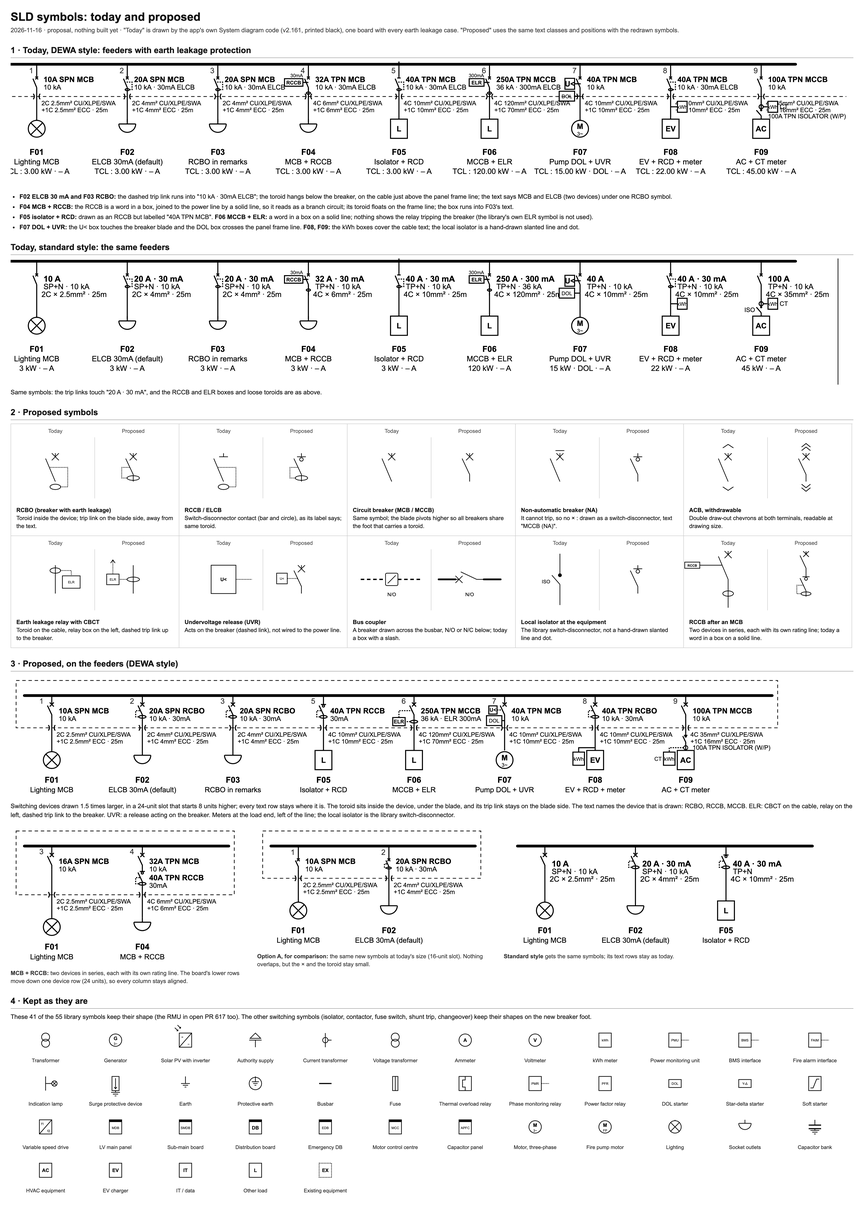
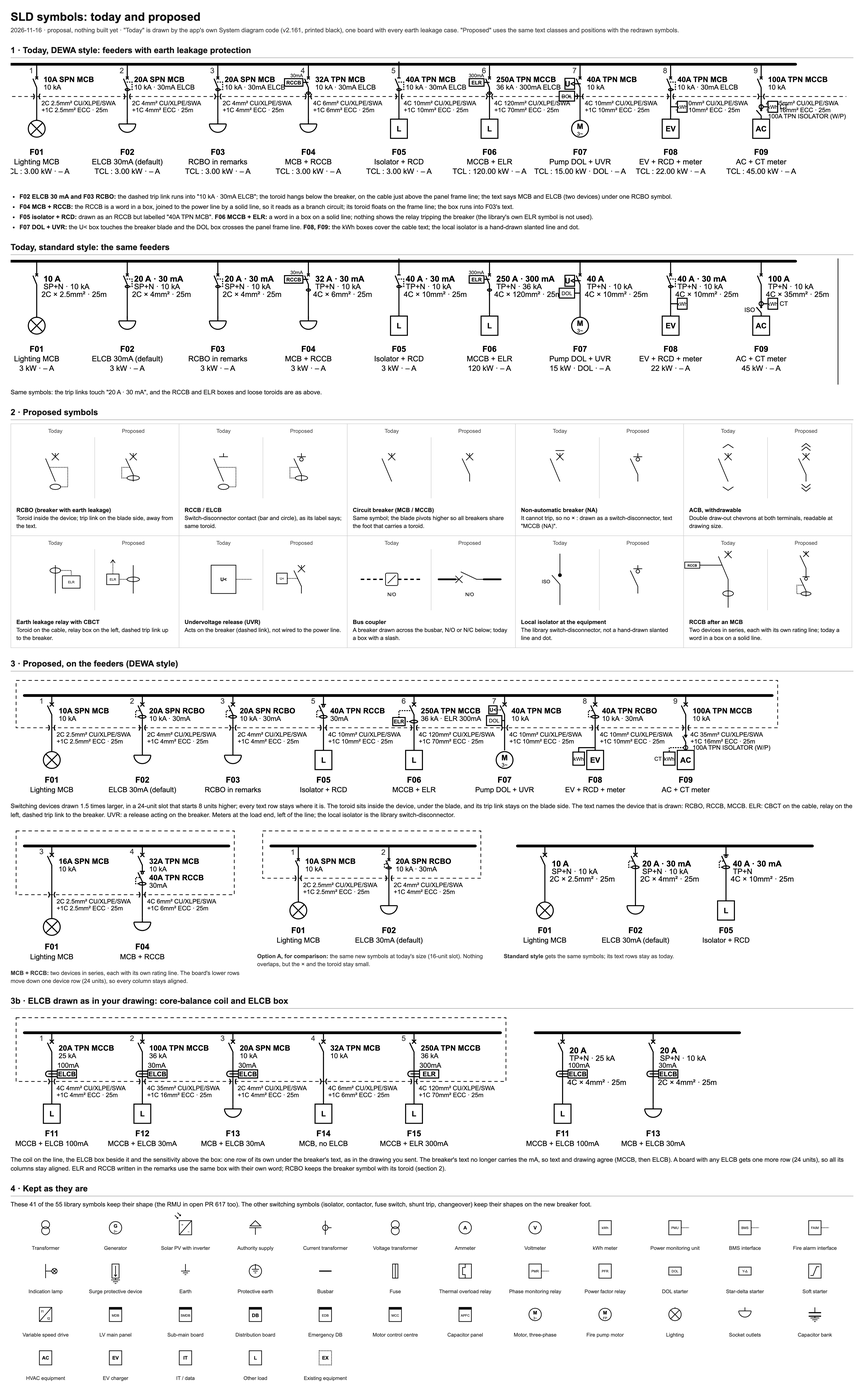
docs(sld): ELCB drawn as in the user's drawing – coil and box under the breaker
The user sent part of a drawing they use: on each MCCB feeder the earth
leakage protection is a core-balance coil on the line with an "ELCB" box
beside it and the sensitivity above the box, on a row of its own next to
the breaker. Mockup section 3b draws that on our SLD (DEWA and standard
styles): the row goes under the breaker's text, the breaker's text drops
the mA, ELR and RCCB use the same box with their own word, RCBO keeps its
symbol, and a board with any ELCB gets one more row. The note makes this
the recommended earth leakage drawing; the IEC device symbols stay the
alternative. Decisions are now four.

diff --git a/docs/mockups/sld-symbols-mockup.html b/docs/mockups/sld-symbols-mockup.html
@@ -131,6 +131,13 @@ svg text{font-family:Arial,Helvetica,sans-serif}
 <figure><div class="sysdiag"><svg xmlns="http://www.w3.org/2000/svg" width="719.2" height="279" viewBox="0 0 464 180"><line x1="20" y1="30" x2="450" y2="30" class="bus"/><line x1="60" y1="30" x2="60" y2="40" class="ln"/><g class="iec"><path d="M 60 40 V 43 M 57 40 L 63 46 M 63 40 L 57 46 M 60 64 V 58 L 53.63 44.5" class="ln"/></g><text x="70" y="60" class="b" >10 A</text><text x="70" y="71" class="acc-t" style="font-size:11px">SP+N · 10 kA</text><line x1="60" y1="64" x2="60" y2="110" class="ln"/><text x="67" y="82" class="m" >2C × 2.5mm² · 25m</text><g class="iec"><path d="M 60 110 V 111.75" class="ln"/><circle cx="60" cy="124" r="12.25" class="sym"/><path d="M 51.34 115.34 L 68.66 132.66 M 68.66 115.34 L 51.34 132.66" class="ln"/></g><text x="60" y="157" class="b" text-anchor="middle">F01</text><text x="60" y="171" class="m" text-anchor="middle" style="font-size:10.5px">Lighting MCB</text><line x1="192" y1="30" x2="192" y2="40" class="ln"/><g class="iec"><path d="M 192 40 V 43 M 189 40 L 195 46 M 195 40 L 189 46 M 192 64 V 58 L 185.63 44.5" class="ln"/><ellipse cx="192" cy="61" rx="5.25" ry="1.95" class="sym-open"/><path d="M 186.75 61 H 182.25 V 52 H 189.15" class="ln" style="stroke-dasharray:2 1.5"/></g><text x="202" y="60" class="b" >20 A · 30 mA</text><text x="202" y="71" class="acc-t" style="font-size:11px">SP+N · 10 kA</text><line x1="192" y1="64" x2="192" y2="110" class="ln"/><text x="199" y="82" class="m" >2C × 4mm² · 25m</text><g class="iec"><path d="M 192 110 V 117 M 179.75 117 H 204.25" class="ln"/><path d="M 179.75 117 A 12.25 12.25 0 0 0 204.25 117" class="sym-open"/></g><text x="192" y="157" class="b" text-anchor="middle">F02</text><text x="192" y="171" class="m" text-anchor="middle" style="font-size:10.5px">ELCB 30mA (default)</text><line x1="324" y1="30" x2="324" y2="40" class="ln"/><g class="iec"><path d="M 324 40 V 43 M 320.25 43 H 327.75 M 324 64 V 58 L 317.63 44.5" class="ln"/><circle cx="324" cy="45.25" r="1.5" class="sym-open"/><ellipse cx="324" cy="61" rx="5.25" ry="1.95" class="sym-open"/><path d="M 318.75 61 H 314.25 V 52 H 321.15" class="ln" style="stroke-dasharray:2 1.5"/></g><text x="334" y="60" class="b" >40 A · 30 mA</text><text x="334" y="71" class="acc-t" style="font-size:11px">TP+N</text><line x1="324" y1="64" x2="324" y2="110" class="ln"/><text x="331" y="82" class="m" >4C × 10mm² · 25m</text><g class="iec"><rect x="311.75" y="110" width="24.5" height="28" class="sym"/><text x="324" y="128" text-anchor="middle" class="iec-t b">L</text></g><text x="324" y="157" class="b" text-anchor="middle">F05</text><text x="324" y="171" class="m" text-anchor="middle" style="font-size:10.5px">Isolator + RCD</text></svg></div><figcaption style="width:742px"><b>Standard style</b> gets the same symbols; its text rows stay as today.</figcaption></figure>
 </div>
 
+<h2>3b · ELCB drawn as in your drawing: core-balance coil and ELCB box</h2>
+<div class="row">
+<figure><div class="sysdiag"><svg xmlns="http://www.w3.org/2000/svg" width="1128.4" height="316.2" viewBox="0 0 728 204"><rect x="8" y="8" width="714" height="93" class="frame-ln"/><line x1="20" y1="30" x2="714" y2="30" class="bus"/><line x1="60" y1="30" x2="60" y2="40" class="ln"/><text x="48" y="42" class="acc-t way-no" text-anchor="end" style="font-size:11px">1</text><g class="iec"><path d="M 60 40 V 43 M 57 40 L 63 46 M 63 40 L 57 46 M 60 64 V 58 L 53.63 44.5" class="ln"/></g><text x="70" y="56" class="dev" >20A TPN MCCB</text><text x="70" y="67" class="dev-k" >25 kA</text><line x1="60" y1="64" x2="60" y2="134" class="ln"/><g class="acc"><path d="M55 86H68M55 90H68M55 94H68M55 86A4 4 0 0 0 55 94" class="ln"/><rect x="68" y="84" width="28" height="12" class="sym"/><text x="82" y="93.4" class="acc-t b" text-anchor="middle" style="font-size:9.5px">ELCB</text><text x="68" y="81" class="acc-t" style="font-size:10px">100mA</text></g><path d="M55 97 q3 4 0 8 M65 97 q-3 4 0 8" class="ln"/><text x="67" y="114" class="acc-t" style="font-size:9px">4C 4mm² CU/XLPE/SWA</text><text x="67" y="124" class="acc-t" style="font-size:9px">+1C 4mm² ECC · 25m</text><g class="iec"><rect x="47.75" y="134" width="24.5" height="28" class="sym"/><text x="60" y="152" text-anchor="middle" class="iec-t b">L</text></g><text x="60" y="181" class="b" text-anchor="middle">F11</text><text x="60" y="195" class="m" text-anchor="middle" style="font-size:10.5px">MCCB + ELCB 100mA</text><line x1="192" y1="30" x2="192" y2="40" class="ln"/><text x="180" y="42" class="acc-t way-no" text-anchor="end" style="font-size:11px">2</text><g class="iec"><path d="M 192 40 V 43 M 189 40 L 195 46 M 195 40 L 189 46 M 192 64 V 58 L 185.63 44.5" class="ln"/></g><text x="202" y="56" class="dev" >100A TPN MCCB</text><text x="202" y="67" class="dev-k" >36 kA</text><line x1="192" y1="64" x2="192" y2="134" class="ln"/><g class="acc"><path d="M187 86H200M187 90H200M187 94H200M187 86A4 4 0 0 0 187 94" class="ln"/><rect x="200" y="84" width="28" height="12" class="sym"/><text x="214" y="93.4" class="acc-t b" text-anchor="middle" style="font-size:9.5px">ELCB</text><text x="200" y="81" class="acc-t" style="font-size:10px">30mA</text></g><path d="M187 97 q3 4 0 8 M197 97 q-3 4 0 8" class="ln"/><text x="199" y="114" class="acc-t" style="font-size:9px">4C 35mm² CU/XLPE/SWA</text><text x="199" y="124" class="acc-t" style="font-size:9px">+1C 16mm² ECC · 25m</text><g class="iec"><rect x="179.75" y="134" width="24.5" height="28" class="sym"/><text x="192" y="152" text-anchor="middle" class="iec-t b">L</text></g><text x="192" y="181" class="b" text-anchor="middle">F12</text><text x="192" y="195" class="m" text-anchor="middle" style="font-size:10.5px">MCCB + ELCB 30mA</text><line x1="324" y1="30" x2="324" y2="40" class="ln"/><text x="312" y="42" class="acc-t way-no" text-anchor="end" style="font-size:11px">3</text><g class="iec"><path d="M 324 40 V 43 M 321 40 L 327 46 M 327 40 L 321 46 M 324 64 V 58 L 317.63 44.5" class="ln"/></g><text x="334" y="56" class="dev" >20A SPN MCB</text><text x="334" y="67" class="dev-k" >10 kA</text><line x1="324" y1="64" x2="324" y2="134" class="ln"/><g class="acc"><path d="M319 86H332M319 90H332M319 94H332M319 86A4 4 0 0 0 319 94" class="ln"/><rect x="332" y="84" width="28" height="12" class="sym"/><text x="346" y="93.4" class="acc-t b" text-anchor="middle" style="font-size:9.5px">ELCB</text><text x="332" y="81" class="acc-t" style="font-size:10px">30mA</text></g><path d="M319 97 q3 4 0 8 M329 97 q-3 4 0 8" class="ln"/><text x="331" y="114" class="acc-t" style="font-size:9px">2C 4mm² CU/XLPE/SWA</text><text x="331" y="124" class="acc-t" style="font-size:9px">+1C 4mm² ECC · 25m</text><g class="iec"><path d="M 324 134 V 141 M 311.75 141 H 336.25" class="ln"/><path d="M 311.75 141 A 12.25 12.25 0 0 0 336.25 141" class="sym-open"/></g><text x="324" y="181" class="b" text-anchor="middle">F13</text><text x="324" y="195" class="m" text-anchor="middle" style="font-size:10.5px">MCB + ELCB 30mA</text><line x1="456" y1="30" x2="456" y2="40" class="ln"/><text x="444" y="42" class="acc-t way-no" text-anchor="end" style="font-size:11px">4</text><g class="iec"><path d="M 456 40 V 43 M 453 40 L 459 46 M 459 40 L 453 46 M 456 64 V 58 L 449.63 44.5" class="ln"/></g><text x="466" y="56" class="dev" >32A TPN MCB</text><text x="466" y="67" class="dev-k" >10 kA</text><line x1="456" y1="64" x2="456" y2="134" class="ln"/><path d="M451 97 q3 4 0 8 M461 97 q-3 4 0 8" class="ln"/><text x="463" y="114" class="acc-t" style="font-size:9px">4C 6mm² CU/XLPE/SWA</text><text x="463" y="124" class="acc-t" style="font-size:9px">+1C 6mm² ECC · 25m</text><g class="iec"><rect x="443.75" y="134" width="24.5" height="28" class="sym"/><text x="456" y="152" text-anchor="middle" class="iec-t b">L</text></g><text x="456" y="181" class="b" text-anchor="middle">F14</text><text x="456" y="195" class="m" text-anchor="middle" style="font-size:10.5px">MCB, no ELCB</text><line x1="588" y1="30" x2="588" y2="40" class="ln"/><text x="576" y="42" class="acc-t way-no" text-anchor="end" style="font-size:11px">5</text><g class="iec"><path d="M 588 40 V 43 M 585 40 L 591 46 M 591 40 L 585 46 M 588 64 V 58 L 581.63 44.5" class="ln"/></g><text x="598" y="56" class="dev" >250A TPN MCCB</text><text x="598" y="67" class="dev-k" >36 kA</text><line x1="588" y1="64" x2="588" y2="134" class="ln"/><g class="acc"><path d="M583 86H596M583 90H596M583 94H596M583 86A4 4 0 0 0 583 94" class="ln"/><rect x="596" y="84" width="28" height="12" class="sym"/><text x="610" y="93.4" class="acc-t b" text-anchor="middle" style="font-size:9.5px">ELR</text><text x="596" y="81" class="acc-t" style="font-size:10px">300mA</text></g><path d="M583 97 q3 4 0 8 M593 97 q-3 4 0 8" class="ln"/><text x="595" y="114" class="acc-t" style="font-size:9px">4C 120mm² CU/XLPE/SWA</text><text x="595" y="124" class="acc-t" style="font-size:9px">+1C 70mm² ECC · 25m</text><g class="iec"><rect x="575.75" y="134" width="24.5" height="28" class="sym"/><text x="588" y="152" text-anchor="middle" class="iec-t b">L</text></g><text x="588" y="181" class="b" text-anchor="middle">F15</text><text x="588" y="195" class="m" text-anchor="middle" style="font-size:10.5px">MCCB + ELR 300mA</text></svg></div></figure>
+<figure><div class="sysdiag"><svg xmlns="http://www.w3.org/2000/svg" width="514.6" height="316.2" viewBox="0 0 332 204"><line x1="20" y1="30" x2="318" y2="30" class="bus"/><line x1="60" y1="30" x2="60" y2="40" class="ln"/><g class="iec"><path d="M 60 40 V 43 M 57 40 L 63 46 M 63 40 L 57 46 M 60 64 V 58 L 53.63 44.5" class="ln"/></g><text x="70" y="60" class="b" >20 A</text><text x="70" y="71" class="acc-t" style="font-size:11px">TP+N · 25 kA</text><line x1="60" y1="64" x2="60" y2="134" class="ln"/><g class="acc"><path d="M55 86H68M55 90H68M55 94H68M55 86A4 4 0 0 0 55 94" class="ln"/><rect x="68" y="84" width="28" height="12" class="sym"/><text x="82" y="93.4" class="acc-t b" text-anchor="middle" style="font-size:9.5px">ELCB</text><text x="68" y="81" class="acc-t" style="font-size:10px">100mA</text></g><text x="67" y="106" class="m" >4C × 4mm² · 25m</text><g class="iec"><rect x="47.75" y="134" width="24.5" height="28" class="sym"/><text x="60" y="152" text-anchor="middle" class="iec-t b">L</text></g><text x="60" y="181" class="b" text-anchor="middle">F11</text><text x="60" y="195" class="m" text-anchor="middle" style="font-size:10.5px">MCCB + ELCB 100mA</text><line x1="192" y1="30" x2="192" y2="40" class="ln"/><g class="iec"><path d="M 192 40 V 43 M 189 40 L 195 46 M 195 40 L 189 46 M 192 64 V 58 L 185.63 44.5" class="ln"/></g><text x="202" y="60" class="b" >20 A</text><text x="202" y="71" class="acc-t" style="font-size:11px">SP+N · 10 kA</text><line x1="192" y1="64" x2="192" y2="134" class="ln"/><g class="acc"><path d="M187 86H200M187 90H200M187 94H200M187 86A4 4 0 0 0 187 94" class="ln"/><rect x="200" y="84" width="28" height="12" class="sym"/><text x="214" y="93.4" class="acc-t b" text-anchor="middle" style="font-size:9.5px">ELCB</text><text x="200" y="81" class="acc-t" style="font-size:10px">30mA</text></g><text x="199" y="106" class="m" >2C × 4mm² · 25m</text><g class="iec"><path d="M 192 134 V 141 M 179.75 141 H 204.25" class="ln"/><path d="M 179.75 141 A 12.25 12.25 0 0 0 204.25 141" class="sym-open"/></g><text x="192" y="181" class="b" text-anchor="middle">F13</text><text x="192" y="195" class="m" text-anchor="middle" style="font-size:10.5px">MCB + ELCB 30mA</text></svg></div></figure>
+</div>
+<p>The coil on the line, the ELCB box beside it and the sensitivity above the box: one row of its own under the breaker's text, as in the drawing you sent. The breaker's text no longer carries the mA, so text and drawing agree (MCCB, then ELCB). A board with any ELCB gets one more row (24 units), so all its columns stay aligned. ELR and RCCB written in the remarks use the same box with their own word; RCBO keeps the breaker symbol with its toroid (section 2).</p>
+
 <h2>4 · Kept as they are</h2>
 <p>These 41 of the 55 library symbols keep their shape (the RMU in open PR 617 too). The other switching symbols (isolator, contactor, fuse switch, shunt trip, changeover) keep their shapes on the new breaker foot.</p>
 <div class="sysdiag"><div class="kept"><div class="kc"><svg xmlns="http://www.w3.org/2000/svg" width="156" height="76" viewBox="0 0 156 76"><g class="iec"><circle cx="78" cy="33" r="9" class="sym-open"/><circle cx="78" cy="47" r="9" class="sym-open"/></g></svg><div>Transformer</div></div><div class="kc"><svg xmlns="http://www.w3.org/2000/svg" width="156" height="76" viewBox="0 0 156 76"><g class="iec"><circle cx="78" cy="40" r="14" class="sym"/><text x="78" y="40" text-anchor="middle" class="iec-t b">G</text><text x="78" y="51" text-anchor="middle" class="iec-t s">3~</text></g></svg><div>Generator</div></div><div class="kc"><svg xmlns="http://www.w3.org/2000/svg" width="156" height="76" viewBox="0 0 156 76"><g class="iec"><rect x="64" y="24" width="28" height="32" class="sym"/><path d="M 64 56 L 92 24" class="ln"/><text x="71" y="36" text-anchor="middle" class="iec-t s">=</text><text x="85" y="52" text-anchor="middle" class="iec-t s">~</text><path d="M 54 12 L 61 19 M 58 19 H 61 V 16 M 60 6 L 67 13 M 64 13 H 67 V 10" class="ln"/></g></svg><div>Solar PV with inverter</div></div><div class="kc"><svg xmlns="http://www.w3.org/2000/svg" width="156" height="76" viewBox="0 0 156 76"><g class="iec"><path d="M 64 40 H 92 M 78 40 V 56" class="ln"/><path d="M 66 36 L 78 24 L 90 36 Z" class="sym-open"/></g></svg><div>Authority supply</div></div><div class="kc"><svg xmlns="http://www.w3.org/2000/svg" width="156" height="76" viewBox="0 0 156 76"><g class="iec"><path d="M 78 24 V 56 M 84 40 H 92" class="ln"/><circle cx="78" cy="40" r="6" class="sym-open"/></g></svg><div>Current transformer</div></div><div class="kc"><svg xmlns="http://www.w3.org/2000/svg" width="156" height="76" viewBox="0 0 156 76"><g class="iec"><circle cx="78" cy="33" r="9" class="sym-open"/><circle cx="78" cy="47" r="9" class="sym-open"/></g></svg><div>Voltage transformer</div></div><div class="kc"><svg xmlns="http://www.w3.org/2000/svg" width="156" height="76" viewBox="0 0 156 76"><g class="iec"><circle cx="78" cy="40" r="14" class="sym"/><text x="78" y="44" text-anchor="middle" class="iec-t b">A</text></g></svg><div>Ammeter</div></div><div class="kc"><svg xmlns="http://www.w3.org/2000/svg" width="156" height="76" viewBox="0 0 156 76"><g class="iec"><circle cx="78" cy="40" r="14" class="sym"/><text x="78" y="44" text-anchor="middle" class="iec-t b">V</text></g></svg><div>Voltmeter</div></div><div class="kc"><svg xmlns="http://www.w3.org/2000/svg" width="156" height="76" viewBox="0 0 156 76"><g class="iec"><rect x="64" y="24" width="28" height="32" class="sym"/><text x="78" y="43" text-anchor="middle" class="iec-t s">kWh</text></g></svg><div>kWh meter</div></div><div class="kc"><svg xmlns="http://www.w3.org/2000/svg" width="156" height="76" viewBox="0 0 156 76"><g class="iec"><rect x="64" y="24" width="28" height="32" class="sym"/><text x="78" y="43" text-anchor="middle" class="iec-t s">PMU</text><path d="M 92 40 H 110" class="ln" style="stroke-dasharray:2 1.5"/></g></svg><div>Power monitoring unit</div></div><div class="kc"><svg xmlns="http://www.w3.org/2000/svg" width="156" height="76" viewBox="0 0 156 76"><g class="iec"><rect x="64" y="24" width="28" height="32" class="sym"/><text x="78" y="43" text-anchor="middle" class="iec-t s">BMS</text><path d="M 92 40 H 110" class="ln" style="stroke-dasharray:2 1.5"/></g></svg><div>BMS interface</div></div><div class="kc"><svg xmlns="http://www.w3.org/2000/svg" width="156" height="76" viewBox="0 0 156 76"><g class="iec"><rect x="64" y="24" width="28" height="32" class="sym"/><text x="78" y="43" text-anchor="middle" class="iec-t s">FAIM</text><path d="M 92 40 H 110" class="ln" style="stroke-dasharray:2 1.5"/></g></svg><div>Fire alarm interface</div></div><div class="kc"><svg xmlns="http://www.w3.org/2000/svg" width="156" height="76" viewBox="0 0 156 76"><g class="iec"><path d="M 78 24 V 56 M 78 40 H 92" class="ln"/><circle cx="98" cy="40" r="6" class="sym"/><path d="M 94 36 L 102 44 M 102 36 L 94 44" class="ln"/></g></svg><div>Indication lamp</div></div><div class="kc"><svg xmlns="http://www.w3.org/2000/svg" width="156" height="76" viewBox="0 0 156 76"><g class="iec"><rect x="70" y="24" width="16" height="32" class="sym"/><path d="M 78 28 V 52 M 75 48 L 78 52 L 81 48" class="ln"/><path d="M 78 56 V 60" class="ln"/><path d="M 68 60 H 88 M 72 64 H 84 M 76 68 H 80" class="ln"/></g></svg><div>Surge protective device</div></div><div class="kc"><svg xmlns="http://www.w3.org/2000/svg" width="156" height="76" viewBox="0 0 156 76"><g class="iec"><path d="M 78 24 V 40" class="ln"/><path d="M 68 40 H 88 M 72 44 H 84 M 76 48 H 80" class="ln"/></g></svg><div>Earth</div></div><div class="kc"><svg xmlns="http://www.w3.org/2000/svg" width="156" height="76" viewBox="0 0 156 76"><g class="iec"><circle cx="78" cy="40" r="14" class="sym-open"/><path d="M 78 24 V 36 M 70 36 H 86 M 73 40 H 83 M 76 44 H 80" class="ln"/></g></svg><div>Protective earth</div></div><div class="kc"><svg xmlns="http://www.w3.org/2000/svg" width="156" height="76" viewBox="0 0 156 76"><g class="iec"><path d="M 64 40 H 92" class="ln thick"/></g></svg><div>Busbar</div></div><div class="kc"><svg xmlns="http://www.w3.org/2000/svg" width="156" height="76" viewBox="0 0 156 76"><g class="iec"><rect x="72" y="24" width="12" height="32" class="sym"/><path d="M 78 24 V 56" class="ln"/></g></svg><div>Fuse</div></div><div class="kc"><svg xmlns="http://www.w3.org/2000/svg" width="156" height="76" viewBox="0 0 156 76"><g class="iec"><rect x="64" y="24" width="28" height="32" class="sym"/><path d="M 78 24 V 32 H 72 V 48 H 78 V 56" class="ln"/></g></svg><div>Thermal overload relay</div></div><div class="kc"><svg xmlns="http://www.w3.org/2000/svg" width="156" height="76" viewBox="0 0 156 76"><g class="iec"><rect x="64" y="24" width="28" height="32" class="sym"/><text x="78" y="43" text-anchor="middle" class="iec-t s">PMR</text><path d="M 92 40 H 110" class="ln" style="stroke-dasharray:2 1.5"/></g></svg><div>Phase monitoring relay</div></div><div class="kc"><svg xmlns="http://www.w3.org/2000/svg" width="156" height="76" viewBox="0 0 156 76"><g class="iec"><rect x="64" y="24" width="28" height="32" class="sym"/><text x="78" y="43" text-anchor="middle" class="iec-t s">PFR</text></g></svg><div>Power factor relay</div></div><div class="kc"><svg xmlns="http://www.w3.org/2000/svg" width="156" height="76" viewBox="0 0 156 76"><g class="iec"><rect x="64" y="31" width="28" height="18" class="sym"/><text x="78" y="43" text-anchor="middle" class="iec-t s">DOL</text></g></svg><div>DOL starter</div></div><div class="kc"><svg xmlns="http://www.w3.org/2000/svg" width="156" height="76" viewBox="0 0 156 76"><g class="iec"><rect x="64" y="31" width="28" height="18" class="sym"/><text x="78" y="43" text-anchor="middle" class="iec-t s">Y-Δ</text></g></svg><div>Star-delta starter</div></div><div class="kc"><svg xmlns="http://www.w3.org/2000/svg" width="156" height="76" viewBox="0 0 156 76"><g class="iec"><rect x="64" y="24" width="28" height="32" class="sym"/><path d="M 68 50 H 74 L 82 30 H 88" class="ln"/></g></svg><div>Soft starter</div></div><div class="kc"><svg xmlns="http://www.w3.org/2000/svg" width="156" height="76" viewBox="0 0 156 76"><g class="iec"><rect x="64" y="24" width="28" height="32" class="sym"/><path d="M 64 56 L 92 24" class="ln"/><text x="71" y="36" text-anchor="middle" class="iec-t s">f1</text><text x="85" y="52" text-anchor="middle" class="iec-t s">f2</text></g></svg><div>Variable speed drive</div></div><div class="kc"><svg xmlns="http://www.w3.org/2000/svg" width="156" height="76" viewBox="0 0 156 76"><g class="iec"><rect x="64" y="24" width="28" height="32" class="sym"/><rect x="64" y="24" width="28" height="5" class="sym-fill"/><text x="78" y="45" text-anchor="middle" class="iec-t s">MDB</text></g></svg><div>LV main panel</div></div><div class="kc"><svg xmlns="http://www.w3.org/2000/svg" width="156" height="76" viewBox="0 0 156 76"><g class="iec"><rect x="64" y="24" width="28" height="32" class="sym"/><rect x="64" y="24" width="28" height="5" class="sym-fill"/><text x="78" y="45" text-anchor="middle" class="iec-t s">SMDB</text></g></svg><div>Sub-main board</div></div><div class="kc"><svg xmlns="http://www.w3.org/2000/svg" width="156" height="76" viewBox="0 0 156 76"><g class="iec"><rect x="64" y="24" width="28" height="32" class="sym"/><rect x="64" y="24" width="28" height="5" class="sym-fill"/><text x="78" y="46" text-anchor="middle" class="iec-t b">DB</text></g></svg><div>Distribution board</div></div><div class="kc"><svg xmlns="http://www.w3.org/2000/svg" width="156" height="76" viewBox="0 0 156 76"><g class="iec"><rect x="64" y="24" width="28" height="32" class="sym"/><rect x="64" y="24" width="28" height="5" class="sym-fill"/><text x="78" y="45" text-anchor="middle" class="iec-t s">EDB</text></g></svg><div>Emergency DB</div></div><div class="kc"><svg xmlns="http://www.w3.org/2000/svg" width="156" height="76" viewBox="0 0 156 76"><g class="iec"><rect x="64" y="24" width="28" height="32" class="sym"/><rect x="64" y="24" width="28" height="5" class="sym-fill"/><text x="78" y="45" text-anchor="middle" class="iec-t s">MCC</text></g></svg><div>Motor control centre</div></div><div class="kc"><svg xmlns="http://www.w3.org/2000/svg" width="156" height="76" viewBox="0 0 156 76"><g class="iec"><rect x="64" y="24" width="28" height="32" class="sym"/><rect x="64" y="24" width="28" height="5" class="sym-fill"/><text x="78" y="45" text-anchor="middle" class="iec-t s">APFC</text></g></svg><div>Capacitor panel</div></div><div class="kc"><svg xmlns="http://www.w3.org/2000/svg" width="156" height="76" viewBox="0 0 156 76"><g class="iec"><circle cx="78" cy="40" r="14" class="sym"/><text x="78" y="40" text-anchor="middle" class="iec-t b">M</text><text x="78" y="51" text-anchor="middle" class="iec-t s">3~</text></g></svg><div>Motor, three-phase</div></div><div class="kc"><svg xmlns="http://www.w3.org/2000/svg" width="156" height="76" viewBox="0 0 156 76"><g class="iec"><circle cx="78" cy="40" r="14" class="sym"/><text x="78" y="40" text-anchor="middle" class="iec-t b">M</text><text x="78" y="51" text-anchor="middle" class="iec-t s">FP</text></g></svg><div>Fire pump motor</div></div><div class="kc"><svg xmlns="http://www.w3.org/2000/svg" width="156" height="76" viewBox="0 0 156 76"><g class="iec"><path d="M 78 24 V 26" class="ln"/><circle cx="78" cy="40" r="14" class="sym"/><path d="M 68.1 30.1 L 87.9 49.9 M 87.9 30.1 L 68.1 49.9" class="ln"/></g></svg><div>Lighting</div></div><div class="kc"><svg xmlns="http://www.w3.org/2000/svg" width="156" height="76" viewBox="0 0 156 76"><g class="iec"><path d="M 78 24 V 32 M 64 32 H 92" class="ln"/><path d="M 64 32 A 14 14 0 0 0 92 32" class="sym-open"/></g></svg><div>Socket outlets</div></div><div class="kc"><svg xmlns="http://www.w3.org/2000/svg" width="156" height="76" viewBox="0 0 156 76"><g class="iec"><path d="M 78 24 V 36 M 78 44 V 48" class="ln"/><path d="M 64 36 H 92 M 64 44 H 92" class="ln thick"/><path d="M 68 48 H 88 M 72 52 H 84 M 76 56 H 80" class="ln"/></g></svg><div>Capacitor bank</div></div><div class="kc"><svg xmlns="http://www.w3.org/2000/svg" width="156" height="76" viewBox="0 0 156 76"><g class="iec"><rect x="64" y="24" width="28" height="32" class="sym"/><text x="78" y="44" text-anchor="middle" class="iec-t b">AC</text></g></svg><div>HVAC equipment</div></div><div class="kc"><svg xmlns="http://www.w3.org/2000/svg" width="156" height="76" viewBox="0 0 156 76"><g class="iec"><rect x="64" y="24" width="28" height="32" class="sym"/><text x="78" y="44" text-anchor="middle" class="iec-t b">EV</text></g></svg><div>EV charger</div></div><div class="kc"><svg xmlns="http://www.w3.org/2000/svg" width="156" height="76" viewBox="0 0 156 76"><g class="iec"><rect x="64" y="24" width="28" height="32" class="sym"/><text x="78" y="44" text-anchor="middle" class="iec-t b">IT</text></g></svg><div>IT / data</div></div><div class="kc"><svg xmlns="http://www.w3.org/2000/svg" width="156" height="76" viewBox="0 0 156 76"><g class="iec"><rect x="64" y="24" width="28" height="32" class="sym"/><text x="78" y="44" text-anchor="middle" class="iec-t b">L</text></g></svg><div>Other load</div></div><div class="kc"><svg xmlns="http://www.w3.org/2000/svg" width="156" height="76" viewBox="0 0 156 76"><g class="iec"><rect x="64" y="24" width="28" height="32" class="ln" style="stroke-dasharray:2 1.5"/><text x="78" y="44" text-anchor="middle" class="iec-t b">EX</text></g></svg><div>Existing equipment</div></div></div></div>

diff --git a/docs/notes/Future development/UI UX proposals - 2026-11-16 - SLD symbols.md b/docs/notes/Future development/UI UX proposals - 2026-11-16 - SLD symbols.md
@@ -55,15 +55,26 @@ Mockup sections 2 and 3.
 13. **DOL with a UVR:** the starter box stays inside the panel frame, on the app's own starter row (`STARTER_DY`); the UVR sits above it as a release.
 14. **Board tab and printed board sheet** draw from the same library, so they show the RCBO and RCCB symbols too and drop their own breaker and transformer drawings.
 
+### ELCB as in the user's drawing (added 2026-11-16, mockup section 3b)
+
+The user then sent part of a drawing they use: on each MCCB feeder the earth leakage protection is a core-balance coil on the line with an "ELCB" box beside it and the sensitivity above the box (100mA, 30mA), on a row of its own next to the breaker; the breaker's text is only "20A TP MCCB". They asked whether we can draw the ELCB like that. Proposed, as the default for earth leakage:
+
+- A feeder with earth leakage (an RCD rating, or ELCB, RCCB, ELR or RCD in its remarks) gets that row under the breaker's text: the coil on the line, the box with the word (ELCB, or RCCB or ELR from the remarks), the sensitivity above the box. Nothing joins the box to the power line.
+- The breaker's text drops the mA ("20A TPN MCCB / 25 kA"), so text and drawing agree: an MCCB, then its ELCB.
+- Only "RCBO" in the remarks keeps the breaker symbol with its toroid (item 2), because an RCBO is one device.
+- A board with any such feeder gets one more row (24 units), so its columns stay aligned.
+- In the user's drawing the busbar (blue) is at the bottom, so the ELCB is on the breaker's outgoing side; on our SLD the busbar is on top, so the row goes under the breaker.
+
+This replaces items 2 (RCCB symbol for an ELCB), 3 (RCCB after an MCB as a second switching device) and 4 (ELR) as the default; they remain the alternative under decision 2. The user's drawing also draws the MCCB as an arc between two small circles, the older BS style; that is not proposed here.
+
 Kept as they are: the other 41 library symbols (mockup section 4) and the RMU of PR 617. The other switching symbols (isolator, contactor, fuse switch, shunt trip, changeover) keep their shapes on the new frame. The DXF blocks and the legend follow, because both are made from the library.
 
 ## Decisions for the user
 
 1. **Size:** B, 1.5 times larger (recommended), or A, today's size (mockup section 3, middle).
-2. **A circuit that only says "ELCB 30mA", or has only an RCD rating:** an RCBO, one device (today's reading, BOQ unchanged; recommended), or an MCB + RCCB, two devices.
+2. **Earth leakage drawing:** the coil and box under the breaker, as in the user's drawing, for ELCB, RCCB and ELR, with RCBO keeping its symbol (recommended, mockup section 3b); or the IEC device symbols (mockup sections 2 and 3: RCCB symbol, two devices in series, ELR with trip link).
 3. **Non-automatic breaker:** switch-disconnector (recommended), or keep the × with the bar.
-4. **MCB + RCCB on one feeder:** two devices in series with an extra row (recommended), or a side box with a dashed link.
-5. **Order:** step 1 the earth leakage family, the device text and the size; step 2 NA, ACB, bus coupler, local isolator, meters and DOL; step 3 the Board tab and the board sheet.
+4. **Order:** step 1 the earth leakage drawing, the device text and the size; step 2 NA, ACB, bus coupler, local isolator, meters and DOL; step 3 the Board tab and the board sheet.
 
 ## How this was checked
 
